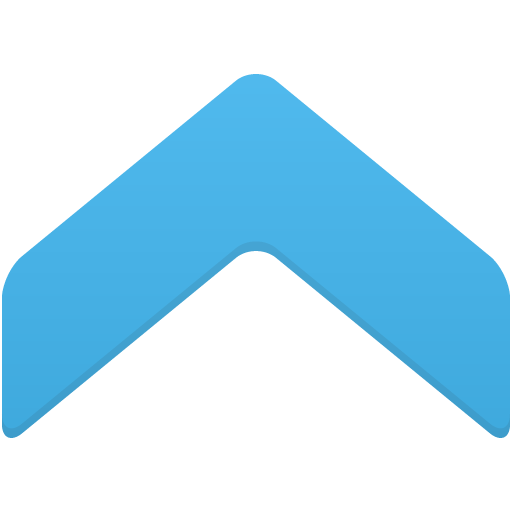
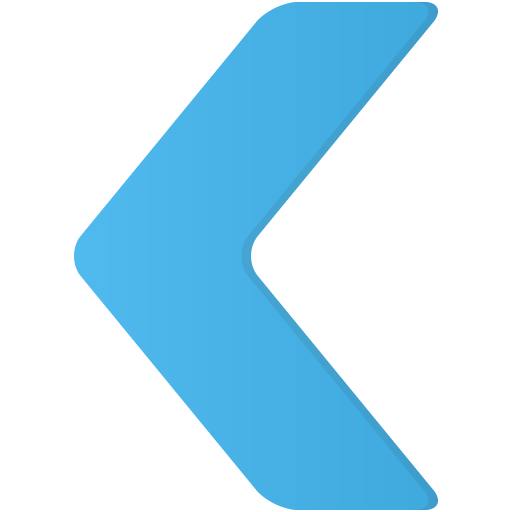
client: input verification

diff --git a/src/components/Menu.jsx b/src/components/Menu.jsx
@@ -4,32 +4,30 @@ import { MainContext } from '../contexts/MainContext';
 import SignForms from './SignForms/SignForms';
 import UserData from './UserData/UserData';
 import hideImg from '../styles/imgs/hide-arrow.png';
+import showImg from '../styles/imgs/show-arrow.png';
 import '../styles/menu.css';
-import SingForms from './SignForms/SignForms';
 
 const Menu = () => {
-  const { isHidden, setMenuHidden, userId, userData } = useContext(MainContext);
-  const handleArrowClick = e => {
+  const { menuVisible, setMenuVisible, userData } = useContext(MainContext);
+  const username = userData.name;
+  const handleArrowClick = modifier => e => {
     e.preventDefault();
-    setMenuHidden(true)
+    setMenuVisible(modifier)
   };
-  const signedUserPathRender = () => {
-    return (
-      userId ? <Redirect to={`/${userData.name}`} /> : <SignForms />
-    )
-  };
-  const userPathRender = ({ match }) => (
-    <UserData userData={userData} />
+  const signedUserCheckup = () => (
+    username ? <Redirect to={'/' + username} /> : <SignForms />
   );
 
   return (
-    !isHidden && <menu id="menu">
-      <img src={hideImg} id="hide-arrow" onClick={ handleArrowClick } />
+    menuVisible ? 
+    ( <menu id="menu">
+      <img src={hideImg} className="arrow" onClick={ handleArrowClick(false) } />
       <Switch>
-        <Route exact path="/" render={ signedUserPathRender } />
-        <Route path="/:username" component={ userPathRender }/>
+        <Route exact path="/" component={ signedUserCheckup } />
+        <Route path="/:username" component={ UserData }/>
       </Switch>
-    </menu>
+    </menu> ) :
+    <img src={showImg} className="arrow" id="show" onClick={ handleArrowClick(true) } />
   );
 };
 

diff --git a/src/components/SignForms/SignUp.jsx b/src/components/SignForms/SignUp.jsx
@@ -1,21 +1,41 @@
-import React from 'react';
+import React, { useState } from 'react';
+import axios from 'axios';
 
-const SignUp = () => {
+const SignUp = ({ setUserData, userDataInput, setUserDataInput, history }) => {
+  const updateUserData = inputField => async e => {
+    e.preventDefault();
+    const inputValue = e.target.value;
+    const isVerifyField = /^(email|name)$/.test(inputField);
+    setUserDataInput({ ...userDataInput, [inputField]: inputValue });
+    if (isVerifyField) {
+      const verifyBody = { inputValue, inputField };
+      const { data } = await axios.post('http://192.168.0.223:7041/users/verify', verifyBody);
+      console.log(data);
+    }
+  };
+  const submitSignIn = async e => {
+    e.preventDefault();
+    const { data } = await axios.post('http://192.168.0.223:7041/users/create', userDataInput);
+    setUserData(data);
+    history.push('/');
+  };
+
+
   return (
-    <form className="sign-form">
+    <form className="sign-form" onSubmit={ submitSignIn } >
       <div className="sign-field">
         <p>username:</p>
-        <input type="text"/>
+        <input type="text" onChange={ updateUserData('name') } />
       </div>
       <div className="sign-field">
         <p>email:</p>
-        <input type="email"/>
+        <input type="email"  onChange={ updateUserData('email') } />
       </div>
       <div className="sign-field">
         <p>password:</p>
-        <input type="password"/>
+        <input type="password"  onChange={ updateUserData('passwd') } />
       </div>
-      <input className="form-submit" type="submit" value="create account"/>
+      <input className="form-submit" type="submit" value="create account" />
     </form>
   );
 };

diff --git a/src/components/SignForms/SignForms.jsx b/src/components/SignForms/SignForms.jsx
@@ -1,10 +1,14 @@
-import React, { useState } from 'react';
+import React, { useState, useContext } from 'react';
+import { useHistory } from 'react-router-dom';
+import axios from 'axios';
 import SignUp from './SignUp';
 import SignIn from './SignIn';
+import { MainContext } from '../../contexts/MainContext';
 import '../../styles/sign-forms.css';
 
 const SingForms = () => {
   const [isSignUp, setSignModifier] = useState(true);
+  const { setUserData } = useContext(MainContext);
   const handleSingForm = modifier => e => {
     e.preventDefault();
     setSignModifier(modifier);
@@ -13,6 +17,10 @@ const SingForms = () => {
     modifier ? { backgroundColor: 'rgb(0, 217, 255)', color: 'black' } :
     { backgroundColor: 'black', color: 'rgb(0, 217, 255)' }
   );
+  const history = useHistory();
+  const [userDataInput, setUserDataInput] = useState({});
+  const signProps = { setUserData, userDataInput, setUserDataInput, history };
+
 
   return (
     <div id="sign">
@@ -20,7 +28,7 @@ const SingForms = () => {
         <p onClick={ handleSingForm(true) } style={ setBtnStateStyle(isSignUp) }>sing up</p>
         <p onClick={ handleSingForm(false) } style={ setBtnStateStyle(!isSignUp) }>sing in</p>
       </div>
-      { isSignUp ? <SignUp /> : <SignIn /> }
+      { isSignUp ? <SignUp {...signProps} /> : <SignIn {...signProps} /> }
     </div>
   );
 };

diff --git a/src/contexts/MainContext.jsx b/src/contexts/MainContext.jsx
@@ -4,17 +4,28 @@ import axios from 'axios';
 export const MainContext = createContext();
 
 const MainContextProvider = props => {
-  const [isHidden, setMenuHidden] = useState(true);
-  const [userData, setUserData] = useState(null);
-  const userId = localStorage.getItem('userId');
+  const [menuVisible, setMenuVisible] = useState(true);
+  const [userData, setUserDataState] = useState({
+    id: localStorage.getItem('id')
+  });
+  const setUserData = user => {
+    localStorage.setItem('id', user.id);
+    setUserDataState(user);
+  };
+  const getUserData = async () => {
+    const resBody = {
+      id: userData.id,
+      ownPage: true
+    };
+    const { data } = await axios.post('http://192.168.0.223:7041/users/find', resBody);
+    setUserDataState(data);
+  };
   useEffect(() => {
-    axios.post('http://192.168.0.223:7041/findUser',
-      { name: 'sasik', visitor: false }
-    ).then(({ data }) => setUserData(data));
+    if (userData.id) getUserData();
   }, []);
-
+    
   return (
-    <MainContext.Provider value={{ isHidden, setMenuHidden, userId, userData }}>
+    <MainContext.Provider value={{ menuVisible, setMenuVisible, userData, setUserData }}>
       {props.children}
     </MainContext.Provider>
   );

diff --git a/src/components/Header.jsx b/src/components/Header.jsx
@@ -1,15 +1,26 @@
 import React, { useContext } from 'react';
-import { MainContext } from '../contexts/MainContext'
+import { MainContext } from '../contexts/MainContext';
+import { useHistory } from 'react-router-dom';
 import defaultLogo from '../styles/imgs/default-user-logo.png';
 import '../styles/header.css';
 
 const Header = () => {
-  const { isHidden, setMenuHidden, userId } = useContext(MainContext);
+  const { menuVisible, setMenuVisible, userData } = useContext(MainContext);
+  const { id, name } = userData;
+  const history = useHistory();
   const handleMenuClick = e => {
-    e.preventDefault();
-    setMenuHidden(!isHidden)
+    const currentPath = history.location.pathname;
+    const isHomePath = new RegExp(id ? `^/${name}$` : '^/$');
+    if (isHomePath.test(currentPath)) {
+      e.preventDefault()
+      setMenuVisible(!menuVisible);
+    }
+    else {
+      setMenuVisible(true);
+      history.push('/');
+    }
   };
-  const backgroundColor = userId ? 'rgb(50, 211, 240)' : 'grey';       //for image state
+  const backgroundColor = id ? 'rgb(50, 211, 240)' : 'grey';       //for image state
 
   return (
     <div id="header">

diff --git a/src/components/SignForms/SignIn.jsx b/src/components/SignForms/SignIn.jsx
@@ -1,15 +1,27 @@
 import React from 'react';
+import axios from 'axios';
 
-const SignIn = () => {
+const SignIn = ({ setUserData, userDataInput, setUserDataInput, history }) => {
+  const updateUserData = field => e => {
+    e.preventDefault();
+    setUserDataInput({ ...userDataInput, [field]: e.target.value });
+  };
+  const submitSignUp = async e => {
+    e.preventDefault();
+    const { data } = await axios.post('http://192.168.0.223:7041/users/enter', userDataInput );
+    setUserData(data);
+    history.push('/');
+  };
+
   return (
-    <form className="sign-form">
+    <form className="sign-form" onSubmit={ submitSignUp }>
       <div className="sign-field">
         <p>email:</p>
-        <input type="email"/>
+        <input type="email" onChange={ updateUserData('email') } />
       </div>
       <div className="sign-field">
         <p>password:</p>
-        <input type="password"/>
+        <input type="password" onChange={ updateUserData('passwd') } />
       </div>
       <input className="form-submit" type="submit" value="sing in"/>
     </form>

diff --git a/webpack.config.js b/webpack.config.js
@@ -16,9 +16,18 @@ module.exports = {
   module: {
     rules: [
       {
-        test: /\.jsx?$/,
+        test: /\.(js|jsx)?$/,
         loader: 'babel-loader',
-        exclude: /node_modules/
+        exclude: /node_modules/,
+        options: {
+          presets: [
+              '@babel/preset-env',
+              '@babel/preset-react'
+          ],
+          plugins: [
+              '@babel/transform-runtime'
+          ]
+        } 
       },
       {
         test: /\.css$/,
@@ -63,7 +72,7 @@ module.exports = {
       template: __dirname + '/src/index.html',
       filename: 'index.html',
       inject: 'body'
-    })
+    }),
   ],
   devServer: {
     port: 7042,

diff --git a/src/components/UserData/UserData.jsx b/src/components/UserData/UserData.jsx
@@ -1,9 +1,19 @@
-import React from 'react';
+import React, { useContext } from 'react';
+import { useParams } from 'react-router-dom';
+import { MainContext } from '../../contexts/MainContext';
 
-const UserData = ({ userData }) => {
+const UserData = () => {
+  const { username } = useParams();
+  const { userData } = useContext(MainContext);
   return (
     <div>
-      <h1>{userData.name}</h1>
+      <h1>{username}</h1>
+      <ul style={{fontSize: '200%'}}>
+        {Object.entries(userData)
+          .map(([key, value]) => 
+            <li>{key}: {value}</li>
+        )}
+      </ul>
     </div>
   );
 };

diff --git a/src/styles/menu.css b/src/styles/menu.css
@@ -7,9 +7,15 @@
   overflow-y: scroll;
 }
 
-#hide-arrow {
+.arrow {
   height: 30px;
-  margin-left: 47%;
   margin-top: 1%;
-  margin-bottom: 4%;
+  margin-right: 1%;
+  margin-left: 0.5%;
 }
+
+#show {
+  margin-top: 1%;
+  margin-left: 1%;
+}
+

diff --git a/src/styles/sign-forms.css b/src/styles/sign-forms.css
@@ -45,6 +45,10 @@
   padding: 2%;
 }
 
+.sign-field > input:focus {
+  border-bottom: 7px solid rgb(0, 217, 255);
+}
+
 .form-submit {
   margin: 0 auto;
   border: 2px solid rgb(0, 217, 255);
